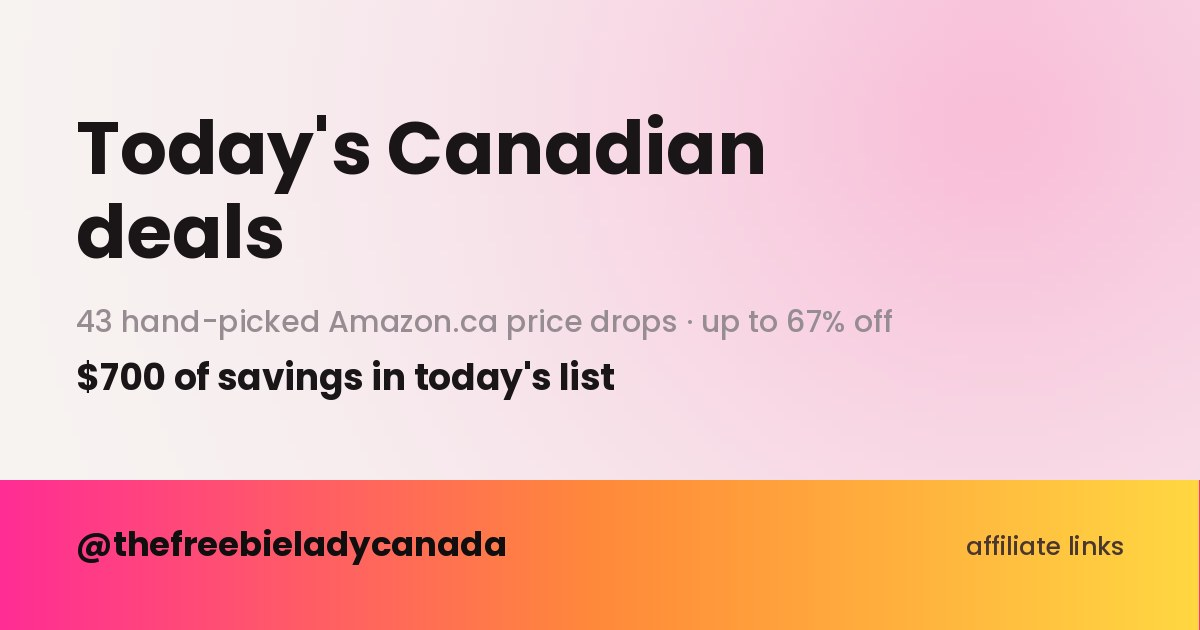
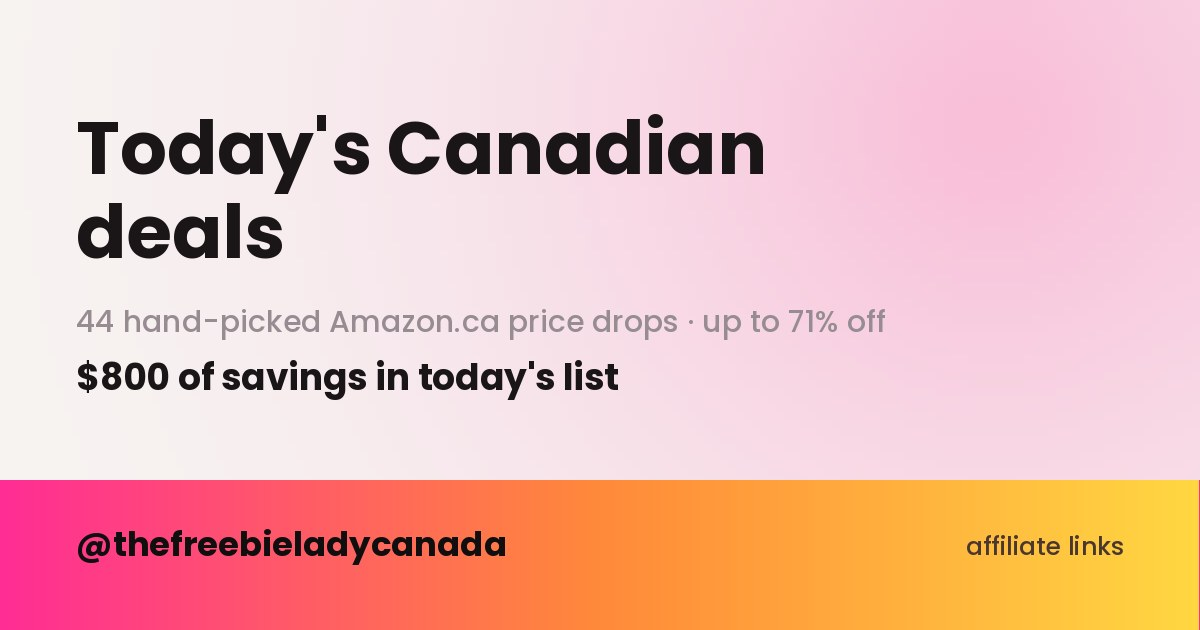
updated

Changed region(s): [[0.0617, 0.4825, 0.555, 0.5429], [0.0617, 0.573, 0.5242, 0.6333], [0.5858, 0.4825, 0.74, 0.5429]]

diff --git a/index.html b/index.html
@@ -4,12 +4,12 @@
 <meta charset="utf-8">
 <meta name="viewport" content="width=device-width, initial-scale=1">
 <title>Today's Canadian Deals — The Freebie Lady Canada</title>
-<meta name="description" content="43 hand-picked Amazon.ca price drops, up to 67% off. Updated daily.">
+<meta name="description" content="44 hand-picked Amazon.ca price drops, up to 71% off. Updated daily.">
 <link rel="canonical" href="https://thefreebieladycanada.com/">
 <meta property="og:type" content="website">
 <meta property="og:site_name" content="The Freebie Lady Canada">
 <meta property="og:title" content="Today's Canadian Deals">
-<meta property="og:description" content="43 hand-picked Amazon.ca price drops, up to 67% off. Updated daily.">
+<meta property="og:description" content="44 hand-picked Amazon.ca price drops, up to 71% off. Updated daily.">
 <meta property="og:url" content="https://thefreebieladycanada.com/">
 <meta property="og:image" content="https://thefreebieladycanada.com/og.jpg">
 <meta property="og:image:width" content="1200">
@@ -148,7 +148,7 @@ footer b{color:var(--ink); font-weight:600}
     <div class="rule"></div>
     <p class="sub">Hand-picked price drops on Amazon.ca — from
       <b>@thefreebieladycanada</b>.</p>
-    <p class="meta">43 deals &middot; checked 12 September, 9:30 PM ET</p>
+    <p class="meta">44 deals &middot; checked 16 September, 12:25 PM ET</p>
   </header>
 
   <p class="upfront"><b>Affiliate links</b> — every link on this page, including the perks below, is an Amazon affiliate link.</p>
@@ -211,11 +211,26 @@ footer b{color:var(--ink); font-weight:600}
         <span class="go" aria-hidden="true">&rarr;</span>
       </a>
     </div>
-    <a class="jump" href="#deals">See today's 43 deals &darr;</a>
+    <a class="jump" href="#deals">See today's 44 deals &darr;</a>
   </section>
 
   <h2 class="deals-head" id="deals">Today's deals</h2>
   <ul>
+
+    <li>
+      <a class="deal" href="https://www.amazon.ca/dp/B0GYS9L9MN?tag=thefreebielad-20&amp;linkCode=ll1&amp;language=en_CA" target="_blank" rel="nofollow sponsored noopener">
+        <span class="off"><b>71%</b><i>off</i></span>
+        <span class="txt">
+          <span class="name">TAEMVV LED Drawing Board</span>
+          <span class="prices">
+            <span class="now">$39.97</span>
+            <span class="was">$139.99</span>
+            <span class="save">save $100.02</span>
+          </span>
+        </span>
+        <span class="go" aria-hidden="true">&rarr;</span>
+      </a>
+    </li>
 
     <li>
       <a class="deal" href="https://www.amazon.ca/dp/B0012DK48C?tag=thefreebielad-20&amp;linkCode=ll1&amp;language=en_CA" target="_blank" rel="nofollow sponsored noopener">
